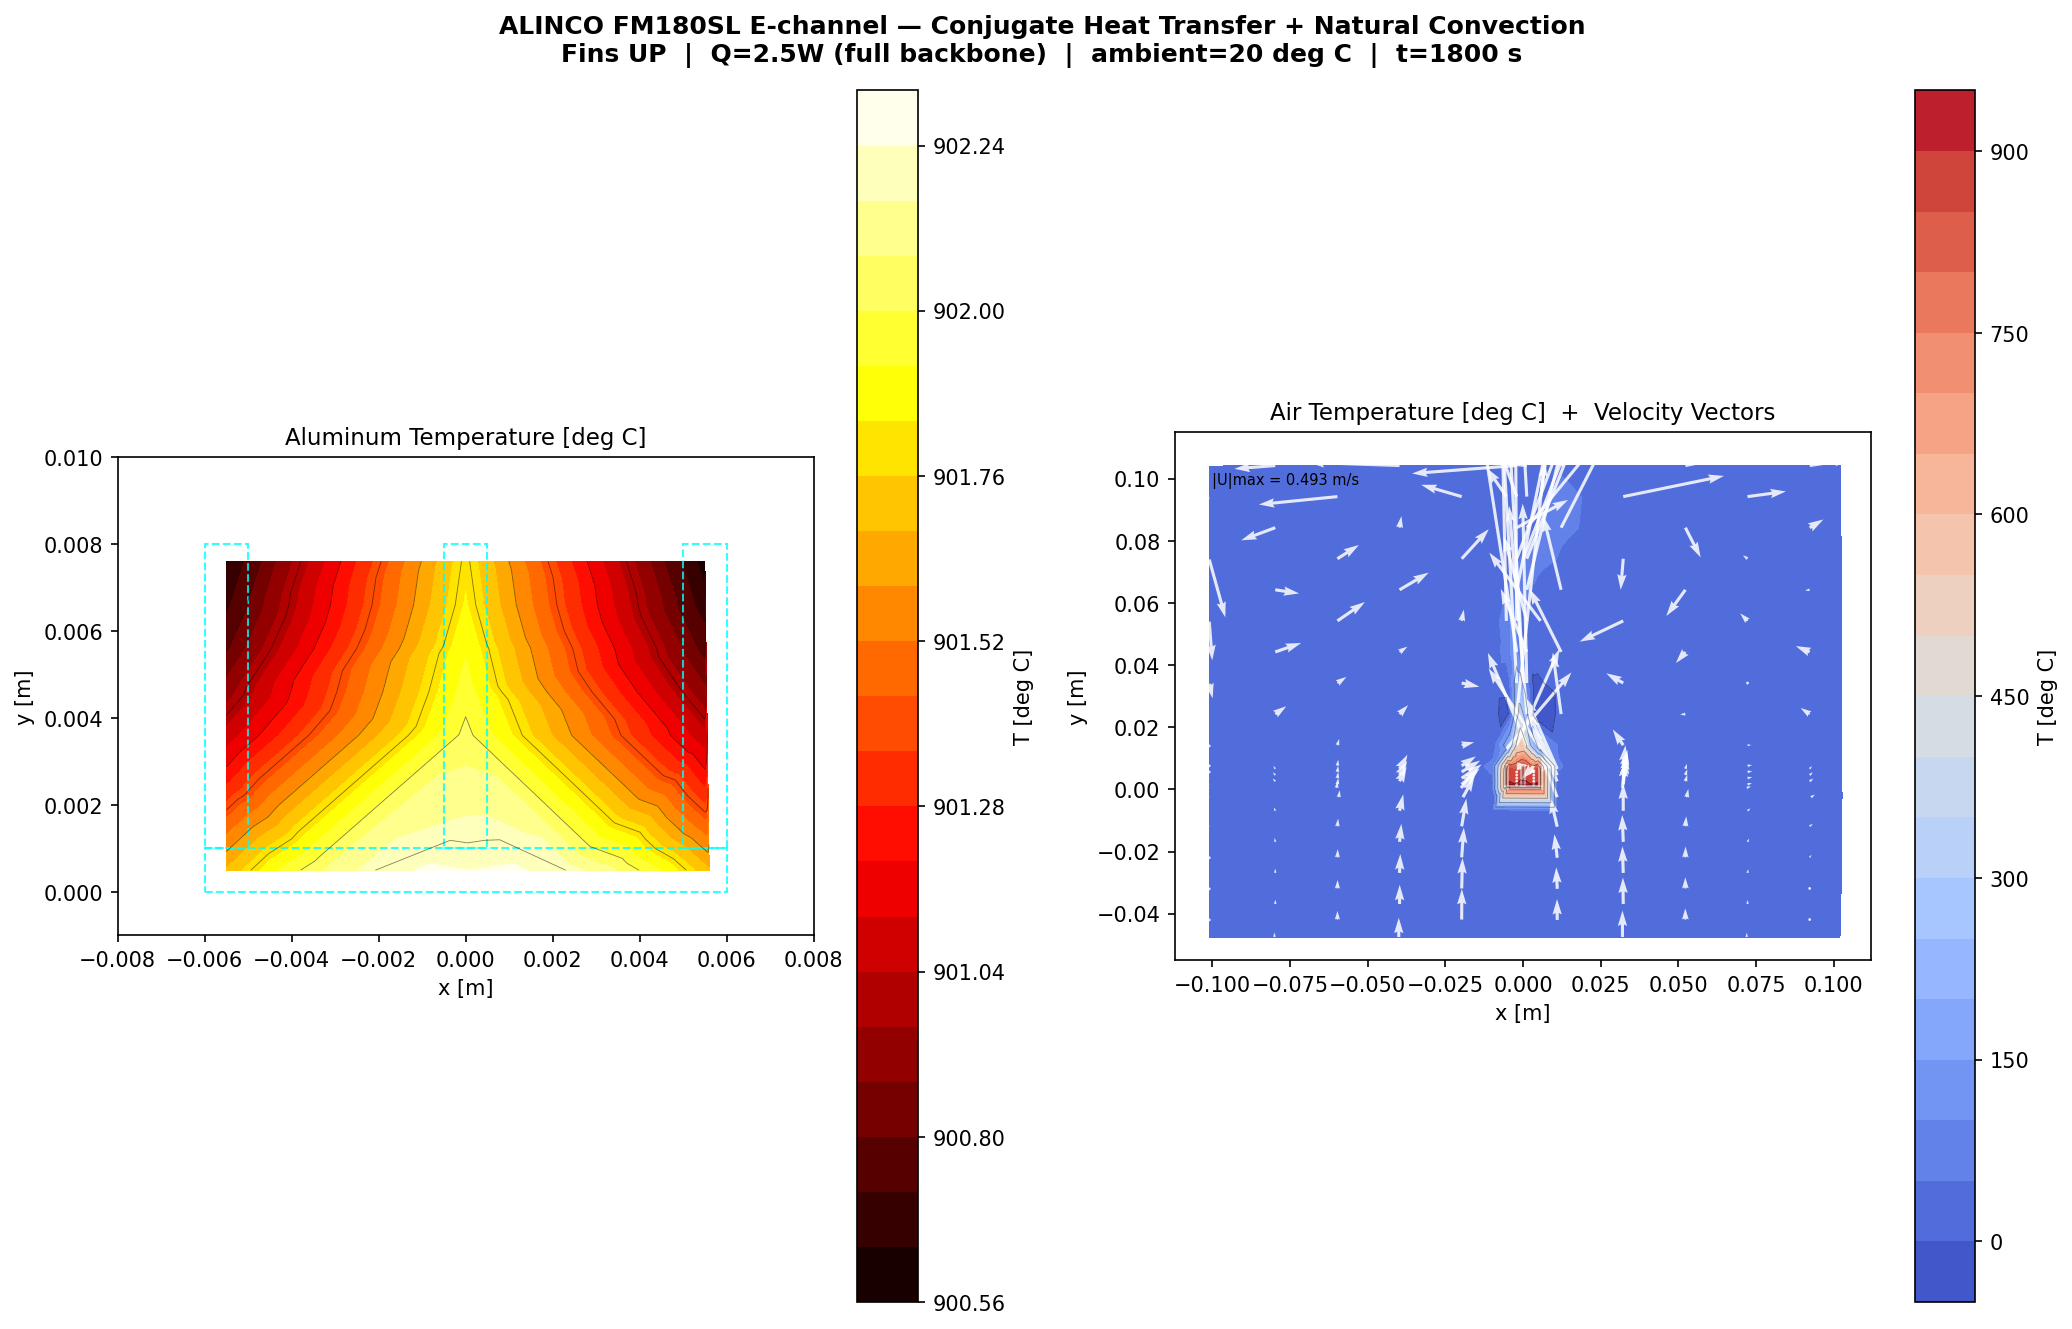
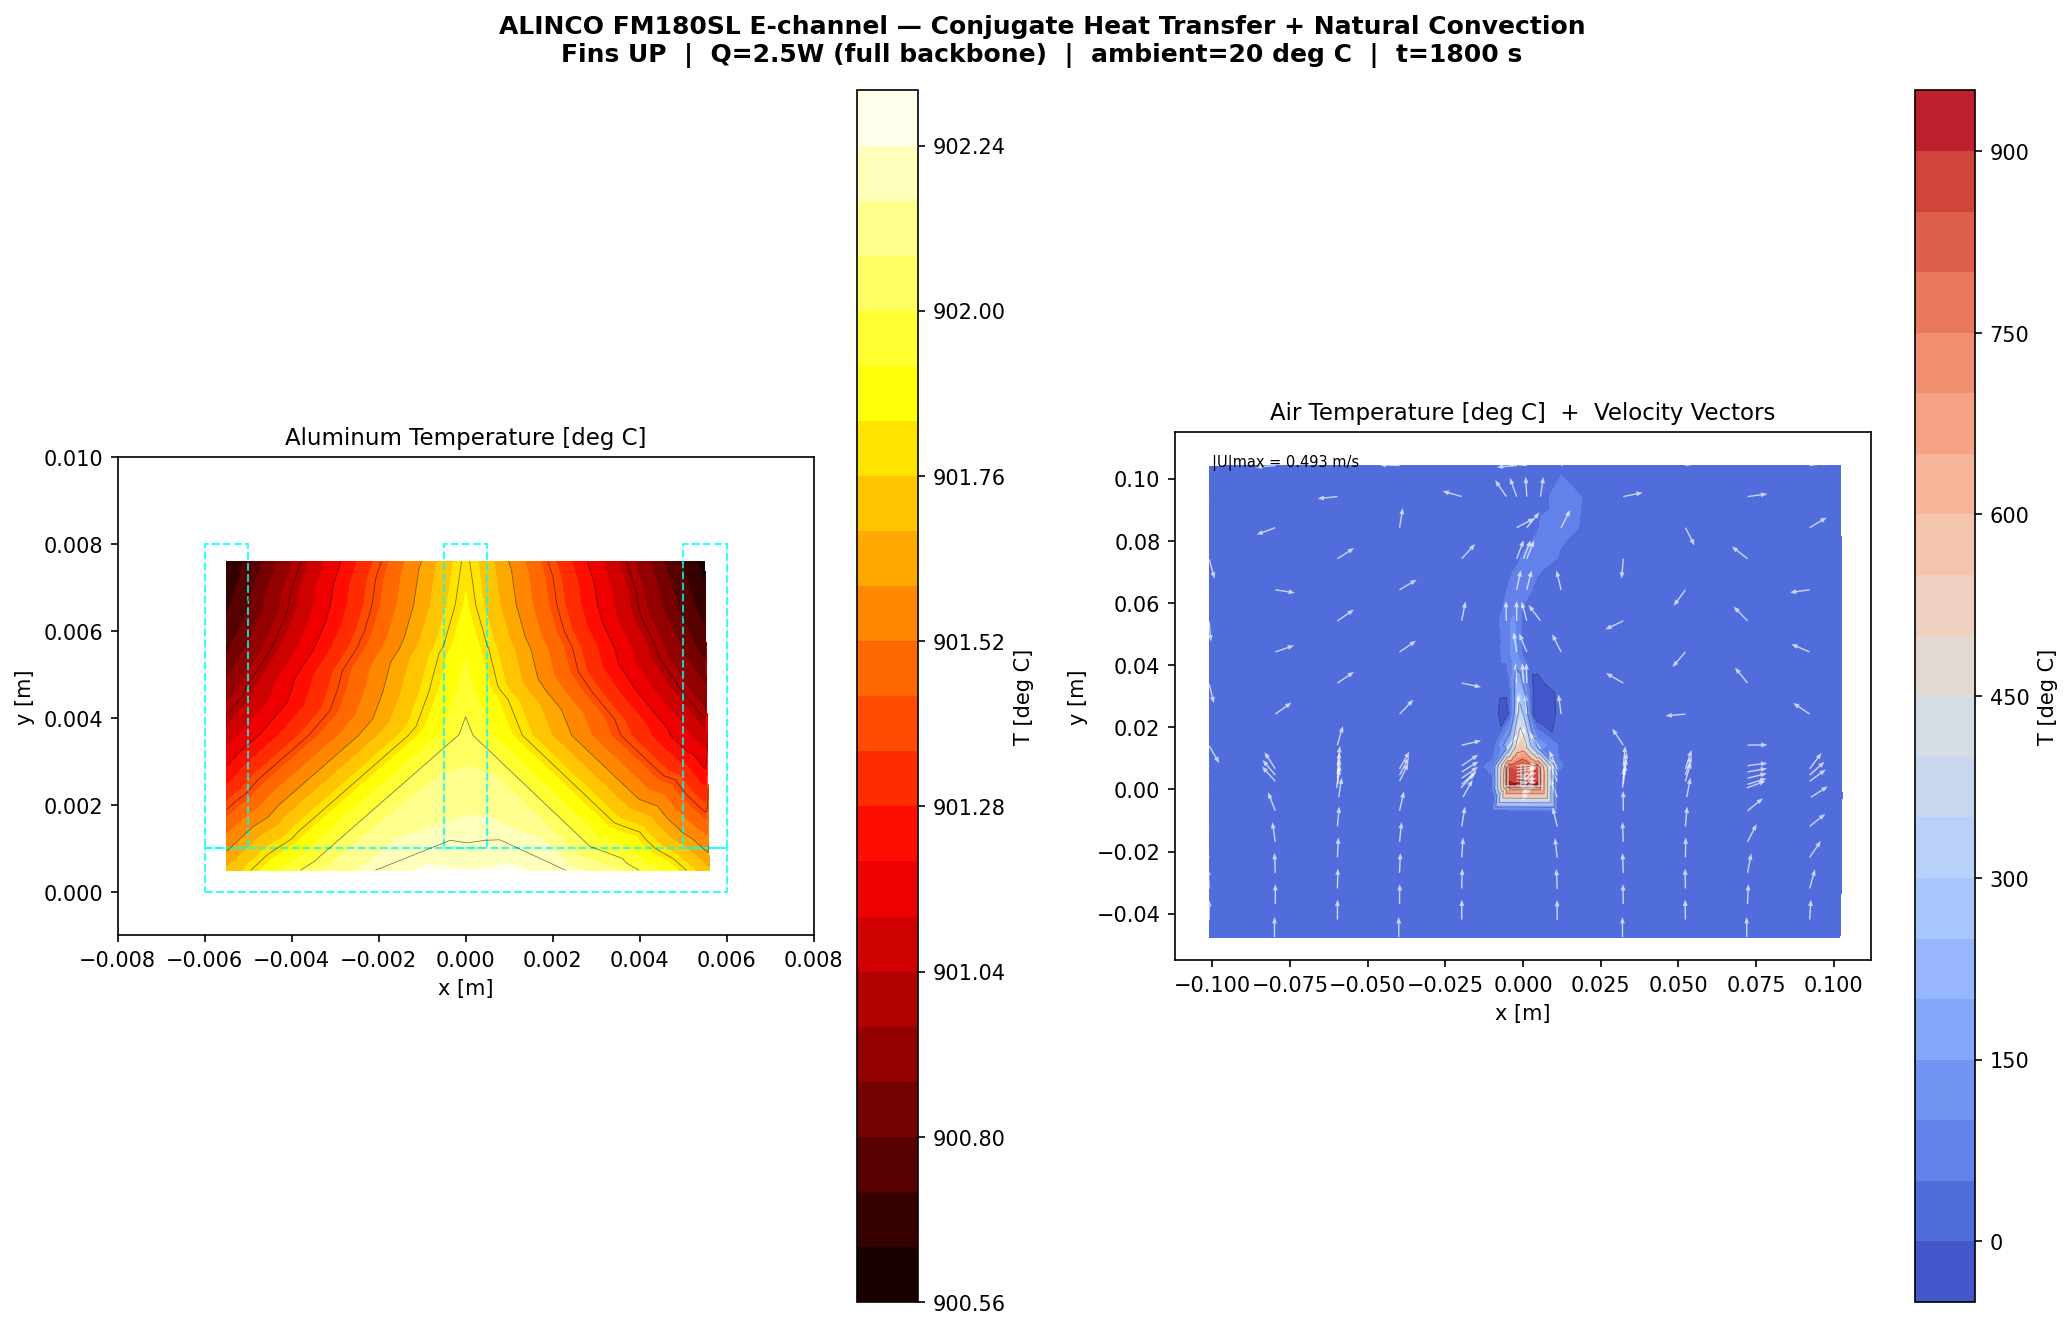
Fix velocity arrows: normalize vectors, uniform short arrows
Changed from scale_units='xy' (physical length) to normalized unit
vectors with scale=35 / width=0.002 / headwidth=3.5 / headlength=4.5,
matching the style of the earlier heat-flux quiver plot (solve_heat.py).
All arrows now show direction only at uniform size; |U|max annotated.

https://claude.ai/code/session_015u84WVv2Pr9D9MNrxa6Fmw

Changed region(s): [[0.6795, 0.3394, 0.7722, 0.5862], [0.5869, 0.3394, 0.6486, 0.3702], [0.8031, 0.3394, 0.834, 0.3702]]

diff --git a/ALINCO-FM180SL-CHT/case/scripts/viz_cht.py b/ALINCO-FM180SL-CHT/case/scripts/viz_cht.py
@@ -204,11 +204,15 @@ else:
     plt.colorbar(sc2, ax=ax, label="T [deg C]")
 if U_air.shape[0] > 1 and U_air.shape[0] == len(cx_air):
     step = max(1, len(cx_air) // 150)
-    spd = np.linalg.norm(U_air, axis=1)
+    spd  = np.linalg.norm(U_air, axis=1)
+    eps  = 1e-10
+    Unx  = U_air[:, 0] / (spd + eps)
+    Uny  = U_air[:, 1] / (spd + eps)
     ax.quiver(cx_air[::step], cy_air[::step],
-              U_air[::step, 0], U_air[::step, 1],
-              color='white', alpha=0.85, scale_units='xy', scale=4)
-    ax.text(-0.100, 0.102, f"|U|max = {spd.max():.3f} m/s",
+              Unx[::step], Uny[::step],
+              color='white', alpha=0.70, scale=35,
+              width=0.002, headwidth=3.5, headlength=4.5)
+    ax.text(-0.100, 0.108, f"|U|max = {spd.max():.3f} m/s",
             fontsize=7, color='black', va='top')
 for pts in al_outline:
     ax.add_patch(plt.Polygon(pts, fill=True, facecolor='gray',

diff --git a/ALINCO-FM180SL-CHT/case/scripts/make_gif.py b/ALINCO-FM180SL-CHT/case/scripts/make_gif.py
@@ -179,9 +179,13 @@ def make_frame(t):
     if U_air.shape[0] > 1:
         step = max(1, len(cx_air) // 100)
         spd  = np.linalg.norm(U_air, axis=1)
+        eps  = 1e-10
+        Unx  = U_air[:, 0] / (spd + eps)
+        Uny  = U_air[:, 1] / (spd + eps)
         ax.quiver(cx_air[::step], cy_air[::step],
-                  U_air[::step, 0], U_air[::step, 1],
-                  color='white', alpha=0.75, scale_units='xy', scale=4)
+                  Unx[::step], Uny[::step],
+                  color='white', alpha=0.70, scale=35,
+                  width=0.002, headwidth=3.5, headlength=4.5)
         ax.text(-0.100, 0.108, f"|U|max={spd.max():.3f} m/s",
                 fontsize=7, color='white', va='top')
     for pts in al_outline:
